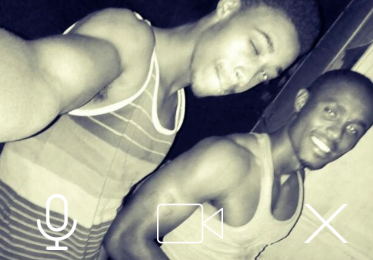
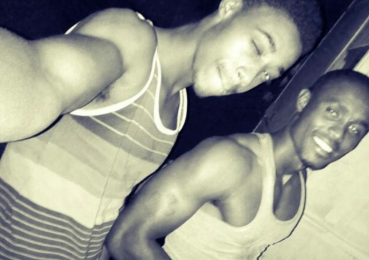
fix first 3 feedbacks

diff --git a/src/First.js b/src/First.js
@@ -1,5 +1,5 @@
 import React, { Component } from 'react';
-import { View, Dimensions, StyleSheet, Image, TouchableOpacity, Text, TextInput, Keyboard, Animated, UIManager, Platform, ScrollView } from 'react-native';
+import { View, Dimensions, StyleSheet, Image, TouchableOpacity, Text, FlatList, Keyboard, Animated, UIManager, Platform, ScrollView } from 'react-native';
 
 import { Actions } from 'react-native-router-flux';
 
@@ -8,139 +8,83 @@ class First extends Component {
   constructor() {
     super();
     this.state = {
+      section1_images: [
+        require('../imgs/first/section1/image1.png'),
+        require('../imgs/first/section1/image2.png'),
+        require('../imgs/first/section1/image3.png'),
+        require('../imgs/first/section1/image1.png'),
+        require('../imgs/first/section1/image2.png'),
+        require('../imgs/first/section1/image3.png')
+      ],
+      demoData: [
+        {
+          group: 0, height: 221,
+          images:[
+            require('../imgs/first/section2/demo1/demo1-1.png'),
+            require('../imgs/first/section2/demo1/demo1-2.png'),
+            require('../imgs/first/section2/demo1/demo1-3.png'),
+            require('../imgs/first/section2/demo1/demo1-4.png')
+          ]
+        },
+        {
+          group: 1, height: 173,
+          images:[
+            require('../imgs/first/section2/demo2/demo2-1.png'),
+            require('../imgs/first/section2/demo2/demo2-2.png')
+          ]
+        },
+        {
+          group: 2, height: 173,
+          images:[
+            require('../imgs/first/section2/demo3/demo3-1.png'),
+            require('../imgs/first/section2/demo3/demo3-2.png')
+          ]
+        },
+        {
+          group: 3, height: 173,
+          images:[
+            require('../imgs/first/section2/demo4/demo4-1.png'),
+            require('../imgs/first/section2/demo4/demo4-2.png')
+          ]
+        },
+      ]
     }
   }
 
   render() {
     return(
-      <ScrollView style={styles.container}>
-        <ScrollView
-          style={styles.section1}
-          horizontal={true}
-        >
-          <View style={styles.section1_image}>
-            <Image
-              style={{width: '100%', height: '100%'}}
-              source={require('../imgs/first/section1/image1.png')}
-            />
+      <View style={styles.container}>
+        <ScrollView>
+          <ScrollView
+            style={styles.section1}
+            horizontal={true}
+          >
+            {
+              this.state.section1_images.map((image, index) => {
+                return(
+                  <Image key={index} style={styles.section1_image} source={image} />
+                )
+              })
+            }
+          </ScrollView>
+          <View style={styles.section2}>
+            <View style={{width: '50%', paddingHorizontal: 10}}>
+              {
+                this.state.demoData.map((data, index) => {
+                  return index % 2 === 0 && this.customDemo(data)
+                })
+              }
+            </View>
+            <View style={{width: '50%', paddingHorizontal: 10}}>
+              {
+                this.state.demoData.map((data, index) => {
+                  return index % 2 === 1 && this.customDemo(data)
+                })
+              }
+            </View>
           </View>
-          <View style={styles.section1_image}>
-            <Image
-              style={{width: '100%', height: '100%'}}
-              source={require('../imgs/first/section1/image2.png')}
-            />
-          </View>
-          <View style={styles.section1_image}>
-            <Image
-              style={{width: '100%', height: '100%'}}
-              source={require('../imgs/first/section1/image3.png')}
-            />
-          </View>
-          <View style={styles.section1_image}>
-            <Image
-              style={{width: '100%', height: '100%'}}
-              source={require('../imgs/first/section1/image1.png')}
-            />
-          </View>
-          <View style={styles.section1_image}>
-            <Image
-              style={{width: '100%', height: '100%'}}
-              source={require('../imgs/first/section1/image2.png')}
-            />
-          </View>
-          <View style={styles.section1_image}>
-            <Image
-              style={{width: '100%', height: '100%'}}
-              source={require('../imgs/first/section1/image3.png')}
-            />
-          </View>
+          
         </ScrollView>
-        <View style={styles.section2}>
-          <View style={{width: '50%', paddingHorizontal: 10}}>
-            <View style={styles.demo1}>
-              <View style={styles.demo1_images}>
-                <View style={styles.demo1_image}>
-                  <Image
-                    style={{width: '100%', height: '100%'}}
-                    source={require('../imgs/first/section2/demo1/demo1-1.png')}
-                  />
-                </View>
-                <View style={styles.demo1_image}>
-                  <Image
-                    style={{width: '100%', height: '100%'}}
-                    source={require('../imgs/first/section2/demo1/demo1-2.png')}
-                  />
-                </View>
-                <View style={styles.demo1_image}>
-                  <Image
-                    style={{width: '100%', height: '100%'}}
-                    source={require('../imgs/first/section2/demo1/demo1-3.png')}
-                  />
-                </View>
-                <View style={styles.demo1_image}>
-                  <Image
-                    style={{width: '100%', height: '100%'}}
-                    source={require('../imgs/first/section2/demo1/demo1-4.png')}
-                  />
-                </View>
-              </View>
-              <Text style={styles.demo_text}>Demo1 😀</Text>
-            </View>
-            <View style={styles.demox}>
-              <View style={styles.demox_images}>
-                <View style={styles.demox_image}>
-                  <Image
-                    style={{width: '100%'}}
-                    source={require('../imgs/first/section2/demo3/demo3-1.png')}
-                  />
-                </View>
-                <View style={styles.demox_image}>
-                  <Image
-                    style={{width: '100%'}}
-                    source={require('../imgs/first/section2/demo3/demo3-2.png')}
-                  />
-                </View>
-              </View>
-              <Text style={styles.demo_text}>Demo3 😀</Text>
-            </View>
-          </View>
-          <View style={{width: '50%', paddingHorizontal: 10}}>
-            <View style={styles.demox}>
-              <View style={styles.demox_images}>
-                <View style={styles.demox_image}>
-                  <Image
-                    style={{width: '100%'}}
-                    source={require('../imgs/first/section2/demo2/demo2-1.png')}
-                  />
-                </View>
-                <View style={styles.demox_image}>
-                  <Image
-                    style={{width: '100%'}}
-                    source={require('../imgs/first/section2/demo2/demo2-2.png')}
-                  />
-                </View>
-              </View>
-              <Text style={styles.demo_text}>Demo2 😀</Text>
-            </View>
-            <View style={styles.demox}>
-              <View style={styles.demox_images}>
-                <View style={styles.demox_image}>
-                  <Image
-                    style={{width: '100%'}}
-                    source={require('../imgs/first/section2/demo4/demo4-1.png')}
-                  />
-                </View>
-                <View style={styles.demox_image}>
-                  <Image
-                    style={{width: '100%'}}
-                    source={require('../imgs/first/section2/demo4/demo4-2.png')}
-                  />
-                </View>
-              </View>
-              <Text style={styles.demo_text}>Demo4 😀</Text>
-            </View>
-          </View>
-        </View>
         <TouchableOpacity
           style={styles.pic_btn}
           onPress={() => Actions.second()}
@@ -149,7 +93,26 @@ class First extends Component {
             style={{width: '100%', height: '100%'}}
             source={require('../imgs/icons/pic_btn.png')} />
         </TouchableOpacity>
-      </ScrollView>
+      </View>
+    )
+  }
+
+  customDemo = (data) => {
+    return(
+      <View key={data.group} style={[styles.demo, {height: data.height}]}>
+        <View style={styles.demo_images}>
+          {
+            data.images.map((image, index) => {
+              return(
+                <View key={index} style={styles.demo_image}>
+                  <Image style={{width: '100%'}} source={image} />
+                </View>
+              )
+            })
+          }
+        </View>
+        <Text style={styles.demo_text}>Demo{data.group+1} 😀</Text>
+      </View>
     )
   }
 }
@@ -157,6 +120,7 @@ class First extends Component {
 const styles = StyleSheet.create({
   container: {
    flex: 1,
+   position: 'relative'
   },
   section1: {
     marginTop: 32,
@@ -171,35 +135,14 @@ const styles = StyleSheet.create({
     flexDirection: 'row',
     paddingHorizontal: 10
   },
-  demo1: {
-    width: '100%',
-    height:221,
-    marginBottom: 20,
-    borderRadius: 10,
-    shadowColor: '#000',
-    shadowOffset: {
-      width: 0,
-      height: 10,
-    },
-    shadowOpacity: 1,
-    shadowRadius: 10,
-    elevation: 9,
-    overflow: 'hidden',
-    backgroundColor: '#F9F7F7'
-  },
-  demo1_images: {
-    flexDirection: 'row',
-    flexWrap: 'wrap',
-  },
   demo_text: {
     marginTop: 12,
     paddingHorizontal: 16,
     fontSize: 18,
     fontWeight: 'bold'
   },
-  demox: {
+  demo: {
     width: '100%',
-    height:173,
     marginBottom: 20,
     borderRadius: 10,
     shadowColor: '#000',
@@ -213,19 +156,17 @@ const styles = StyleSheet.create({
     overflow: 'hidden',
     backgroundColor: '#F9F7F7'
   },
-  demox_images: {
-    flexDirection: 'row'
+  demo_images: {
+    flexDirection: 'row',
+    flexWrap: 'wrap'
   },
-  demo1_image: {
-    width: '50%',
-    aspectRatio: 1
-  },
-  demox_image: {
+  demo_image: {
     width: '50%',
   },
   pic_btn: {
+    position: 'absolute',
+    bottom: 14,
     alignSelf: 'center',
-    marginVertical: 16,
     width: 64,
     height: 62
   }

diff --git a/src/Second.js b/src/Second.js
@@ -14,15 +14,34 @@ class Second extends Component {
   render() {
     return(
       <View style={styles.container}>
-        <View style={styles.section}>
-          <Image style={styles.section1_image} source={require('../imgs/second/image1.png')} />
+        <View>
+          <View style={styles.section}>
+            <Image style={styles.section1_image} source={require('../imgs/second/image1.png')} />
+          </View>
+          <View style={styles.section2}>
+            <Image style={styles.section2_image} source={require('../imgs/second/image2.png')} />
+            <Image style={styles.section2_image} source={require('../imgs/second/image3.png')} />
+          </View>
+          <View style={styles.section}>
+            <Image style={styles.section1_image} source={require('../imgs/second/image4.png')} />
+          </View>
         </View>
-        <View style={styles.section2}>
-          <Image style={styles.section2_image} source={require('../imgs/second/image2.png')} />
-          <Image style={styles.section2_image} source={require('../imgs/second/image3.png')} />
-        </View>
-        <View style={styles.section}>
-          <Image style={styles.section1_image} source={require('../imgs/second/image4.png')} />
+        <View style={styles.buttons}>
+          <View style={styles.button}>
+            <TouchableOpacity>
+              <Image source={require('../imgs/icons/microphone.png')} />
+            </TouchableOpacity>
+          </View>
+          <View style={styles.button}>
+            <TouchableOpacity>
+              <Image source={require('../imgs/icons/video-camera.png')} />
+            </TouchableOpacity>
+          </View>
+          <View style={styles.button}>
+            <TouchableOpacity onPress={() => Actions.pop()}>
+              <Image source={require('../imgs/icons/cancel.png')} />
+            </TouchableOpacity>
+          </View>
         </View>
       </View>
     )
@@ -49,6 +68,16 @@ const styles = StyleSheet.create({
   section2_image: {
     width: '50%',
     height: '100%'
+  },
+  buttons: {
+    position: 'absolute',
+    bottom: 16,
+    flexDirection: 'row',
+    width: '100%'
+  },
+  button: {
+    width: '33.33%',
+    alignItems: 'center'
   }
 });
 
